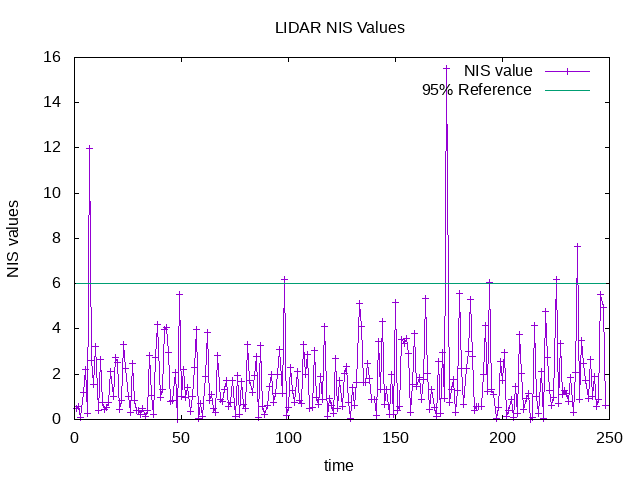
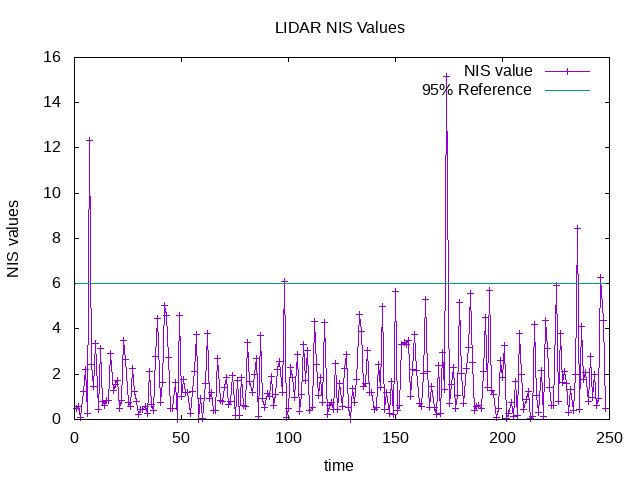
.06, .08, .22, .22

diff --git a/src/ukf.cpp b/src/ukf.cpp
@@ -27,10 +27,10 @@ UKF::UKF() {
 	P_ = MatrixXd(5, 5);
 
 	// Process noise standard deviation longitudinal acceleration in m/s^2
-	std_a_ = 1;
+	std_a_ = 0.6;
 
 	// Process noise standard deviation yaw acceleration in rad/s^2
-	std_yawdd_ = 2;
+	std_yawdd_ = M_PI/6;
 
 	//DO NOT MODIFY measurement noise values below these are provided by the sensor manufacturer.
 	// Laser measurement noise standard deviation position1 in m
